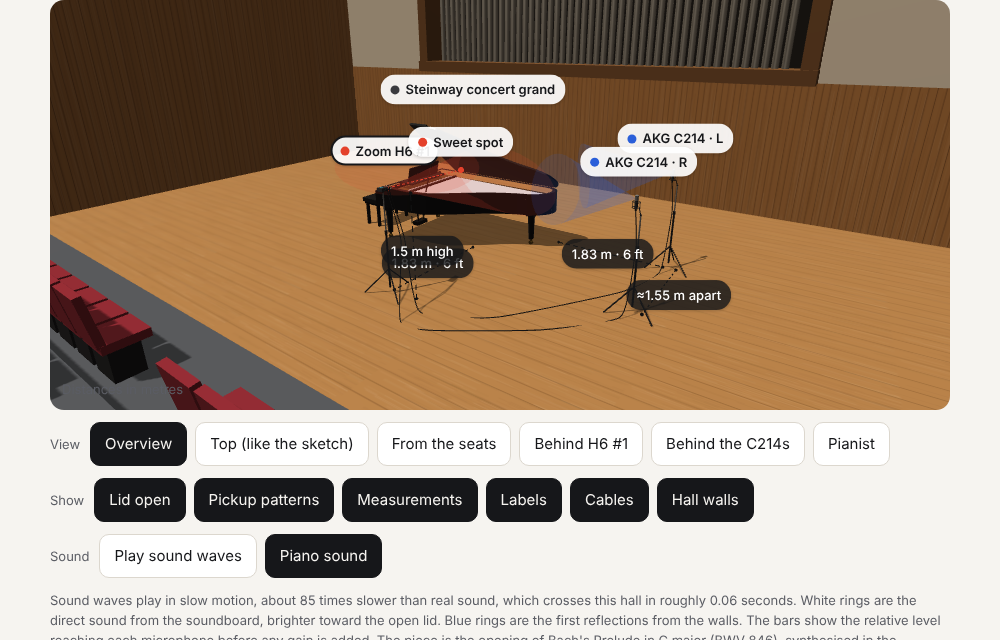
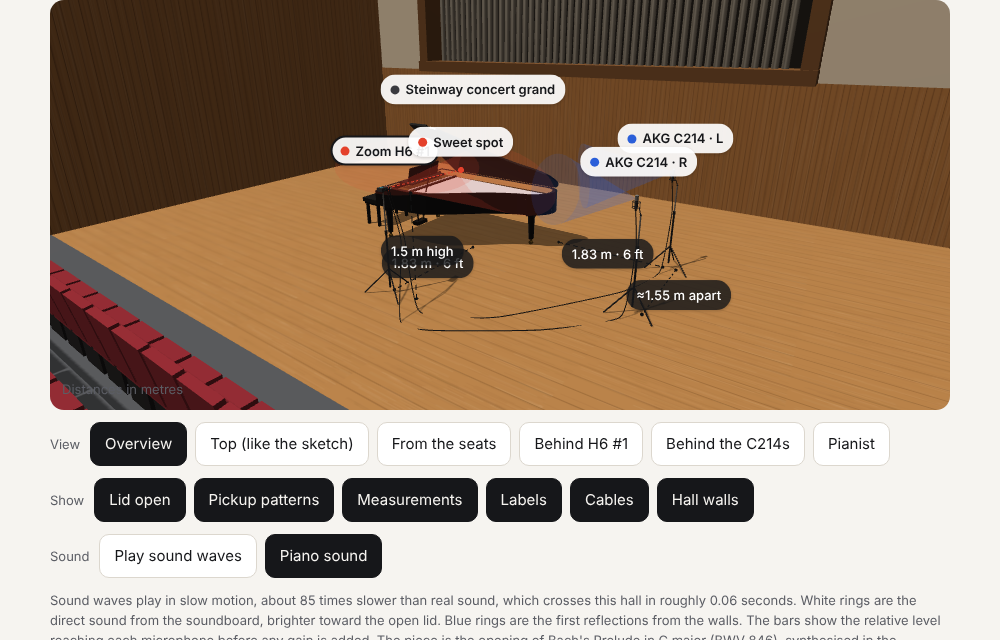
Close the centre aisle and stand H6 #2 between seat rows
The seating is now one continuous block of 22 seats per row with side
aisles only, which narrows the hall. H6 #2 sits on a tripod in the gap
between the third and fourth rows.

Claude-Session: https://claude.ai/code/session_0183zpqxzwarV8TUNT6yqHS7

Changed region(s): [[0.031, 0.4375, 0.279, 0.6562], [0.031, 0.25, 0.341, 0.375], [0.341, 0.0, 0.403, 0.2188]]

diff --git a/index.html b/index.html
@@ -132,7 +132,7 @@ const INFO={
  h6a:{name:'Zoom H6 #1',color:C.main,tag:'Main recorder and preamp · 4 tracks',rows:[['Capsule','Built-in X/Y set to 120°, facing forward'],['Shaded field','The pair covers 120° in total. The two mics overlap in the middle, so the sweet spot is picked up by both'],['Height','1.5 m'],['Place','≈1.83 m (6 ft) out from the curved side, shifted a little to the right (toward the tail)'],['Aim','Tilted slightly left onto the sweet spot, the middle of the open lid'],['Also','Preamp and 48 V phantom for both C214s. Inputs 3 and 4 are both on the right side of the recorder, 3 above 4']],text:'This is the main stereo image. The 120° setting gives a wider picture than 90°. Fine-tune the height and angle on headphones.'},
  c214L:{name:'AKG C214 · L',color:C.pair,tag:'Spaced pair · Input 3 on H6 #1',rows:[['Pattern','Large-diaphragm cardioid'],['Height','1.5 m'],['Distance','≈1.83 m (6 ft) beyond the tail'],['Side','Bass (back of the stage)'],['Aim','At the piano, angled slightly toward its centre']],text:'It is called L because it carries the bass, the way the pianist hears it. If you stand behind the pair facing the piano, this mic is on your right.'},
  c214R:{name:'AKG C214 · R',color:C.pair,tag:'Spaced pair · Input 4 on H6 #1',rows:[['Pattern','Large-diaphragm cardioid'],['Height','1.5 m'],['Spacing','≈1.5–1.6 m from L, a little wider than the keyboard'],['Side','Treble (toward the audience)'],['Aim','At the piano, angled slightly toward its centre']],text:'The wide spacing gives a broad image. If the centre sounds thin, the H6 #1 X/Y fills it in the mix.'},
- h6b:{name:'Zoom H6 #2',color:C.room,tag:'Room / "echo" · 2 tracks',rows:[['Capsule','Built-in X/Y set to 120°, facing backward (away from the stage)'],['Shaded field','The pair covers 120° in total, with the two mics overlapping in the middle'],['Height','1.5 m above the floor of its row'],['Place','In the raked seating, past the stage edge'],['Aim','Toward the back of the hall, to catch reflections rather than the direct piano sound']],text:'This recorder collects the hall’s reverb, which you blend in under the close mics. Facing it backward keeps the direct sound low. The exact row isn’t fixed in the plan, so the model shows an example position in the fourth row.'}
+ h6b:{name:'Zoom H6 #2',color:C.room,tag:'Room / "echo" · 2 tracks',rows:[['Capsule','Built-in X/Y set to 120°, facing backward (away from the stage)'],['Shaded field','The pair covers 120° in total, with the two mics overlapping in the middle'],['Height','1.5 m above the floor of its row'],['Place','On a tripod standing in the gap between the third and fourth rows of seats, at the centre of the hall'],['Aim','Toward the back of the hall, to catch reflections rather than the direct piano sound']],text:'This recorder collects the hall’s reverb, which you blend in under the close mics. Facing it backward keeps the direct sound low. The exact row isn’t fixed in the plan, so the model shows an example position between the third and fourth rows.'}
 };
 const ORDER=['piano','h6a','c214L','c214R','h6b'];
 let sel='h6a';
@@ -189,7 +189,7 @@ function wood(base,dk,planks,vert){return (g,w,h)=>{g.fillStyle=base;g.fillRect(
 
 // ---------- Hall (proportions approximate) ----------
 const hall=new THREE.Group(),upper=new THREE.Group();scene.add(hall);hall.add(upper);
-const X0=-7.7,X1=8.3,Z0=-4.3,Z1=15.6,HC=9,CX=(X0+X1)/2,W=X1-X0;
+const X0=-6.4,X1=7.0,Z0=-4.3,Z1=15.6,HC=9,CX=(X0+X1)/2,W=X1-X0;
 const STAGE_FRONT=4.0,ROW0=4.9,ROWD=0.95,NROW=11,rowY=r=>r*0.33;
 const plane=(w,h,mat,x,y,z,rx,ry,parent)=>{const m=new THREE.Mesh(new THREE.PlaneGeometry(w,h),mat);m.position.set(x,y,z);m.rotation.set(rx,ry,0);m.receiveShadow=true;parent.add(m);return m};
 plane(W,STAGE_FRONT-Z0,M('#ffffff',{map:tex(512,512,wood('#a97d4c','#5a3c1e',10,false),7,4),roughness:.45,envMapIntensity:.25}),CX,0,(Z0+STAGE_FRONT)/2,-Math.PI/2,0,scene);
@@ -197,8 +197,8 @@ const carpet=M('#4a4f58',{roughness:.95});
 plane(W,ROW0-.5+ROWD-STAGE_FRONT,carpet,CX,.002,(STAGE_FRONT+ROW0-.5+ROWD)/2,-Math.PI/2,0,scene);
 for(let r=1;r<NROW;r++)add(box(W,rowY(r),ROWD),carpet,scene,CX,rowY(r)/2,ROW0-.5+r*ROWD+ROWD/2);
 {const z=ROW0-.5+NROW*ROWD;add(box(W,rowY(NROW-1),Z1-z),carpet,scene,CX,rowY(NROW-1)/2,(z+Z1)/2)}
-{ // seats: two blocks of 11 with a centre aisle
-  const pos=[];for(let r=0;r<NROW;r++)for(let k=0;k<11;k++){pos.push([-6.42+k*.56,ROW0+r*ROWD,rowY(r)],[1.38+k*.56,ROW0+r*ROWD,rowY(r)])}
+{ // seats: one continuous block of 22 per row, side aisles only
+  const pos=[];for(let r=0;r<NROW;r++)for(let k=0;k<22;k++)pos.push([CX-5.88+k*.56,ROW0+r*ROWD,rowY(r)])
   const fab=M('#7c2530',{roughness:.9}),n=pos.length;
   const cu=new THREE.InstancedMesh(box(.5,.1,.45),fab,n),bk=new THREE.InstancedMesh(box(.5,.6,.08),fab,n),bs=new THREE.InstancedMesh(box(.44,.37,.3),dark,n);
   const d=new THREE.Object3D();pos.forEach(([x,z,y],i)=>{d.rotation.set(0,0,0);d.position.set(x,y+.42,z);d.updateMatrix();cu.setMatrixAt(i,d.matrix);
@@ -218,9 +218,9 @@ for(let r=1;r<NROW;r++)add(box(W,rowY(r),ROWD),carpet,scene,CX,rowY(r)/2,ROW0-.5
   for(let i=0;i<N;i++){const h=1.6+2.6*Math.abs(Math.cos(i/(N-1)*Math.PI*3));d.position.set(CX-3.84+i*.16,2.88+h/2,Z0+.55);d.scale.set(1,h,1);d.updateMatrix();pipes.setMatrixAt(i,d.matrix)}
   hall.add(pipes);
   // ceiling reflectors and lighting catwalk
-  const cloud=M('#e9e4d8',{roughness:.9});[-5.2,0,5.2].forEach(dx=>{add(box(4.6,.08,2.6),cloud,upper,CX+dx,7.4,.5,false).rotation.x=.12});
+  const cloud=M('#e9e4d8',{roughness:.9});[-4.4,0,4.4].forEach(dx=>{add(box(4.2,.08,2.6),cloud,upper,CX+dx,7.4,.5,false).rotation.x=.12});
   const cz=5.6,cy=7.3,iron=M('#2a2a2c');add(box(W,.06,1),iron,upper,CX,cy,cz,false);[-.5,.5].forEach(dz=>add(box(W,.05,.05),iron,upper,CX,cy+1,cz+dz,false));
-  for(let i=0;i<8;i++){add(cyl(.11,.13,.3,12),iron,upper,X0+1.5+i*1.86,cy-.3,cz-.5,false).rotation.x=.5}
+  for(let i=0;i<8;i++){add(cyl(.11,.13,.3,12),iron,upper,X0+1.5+i*(W-3)/7,cy-.3,cz-.5,false).rotation.x=.5}
 }
 
 // ---------- Steinway concert grand (2.74 m x 1.57 m) ----------
@@ -260,8 +260,8 @@ function placeProp(){const a=-lidPivot.rotation.x,A=V(-.35,.98,.62),B=V(-.35,.98
 
 // ---------- Stands, recorders, microphones ----------
 const pickables=[pianoG],coneGroup=new THREE.Group(),cableGroup=new THREE.Group(),dimGroup=new THREE.Group();scene.add(coneGroup,cableGroup,dimGroup);
-function tripod(x,z,floorY,topY){const hub=floorY+.38,mid=Math.min(hub+.55,topY);
-  for(let i=0;i<3;i++){const a=i*2.094+.5;rod(V(x,hub,z),V(x+Math.cos(a)*.36,floorY+.012,z+Math.sin(a)*.36),.009,dark,scene)}
+function tripod(x,z,floorY,topY,compact){const hub=floorY+.38,mid=Math.min(hub+.55,topY),zs=compact?.55:1; // compact: legs squeezed to fit between two seat rows
+  for(let i=0;i<3;i++){const a=i*2.094+(compact?Math.PI/2:.5);rod(V(x,hub,z),V(x+Math.cos(a)*.36,floorY+.012,z+Math.sin(a)*.36*zs),.009,dark,scene)}
   rod(V(x,floorY+.1,z),V(x,mid,z),.013,dark,scene);rod(V(x,mid-.05,z),V(x,topY,z),.009,steel,scene);add(cyl(.019,.019,.05,12),dark,scene,x,mid-.02,z)}
 function cone(at,dir,color,len=1.3,rad=.5,flat=1){const geo=new THREE.ConeGeometry(rad,len,40,1,true);geo.translate(0,-len/2,0);geo.rotateX(-Math.PI/2);geo.scale(1,flat,1);
   const m=new THREE.Mesh(geo,new THREE.MeshBasicMaterial({color,transparent:true,opacity:.13,depthWrite:false,side:THREE.DoubleSide}));
@@ -269,7 +269,7 @@ function cone(at,dir,color,len=1.3,rad=.5,flat=1){const geo=new THREE.ConeGeomet
 function rr(w,h,r){const s=new THREE.Shape(),P=Math.PI;s.moveTo(-w/2+r,-h/2);s.lineTo(w/2-r,-h/2);s.absarc(w/2-r,-h/2+r,r,-P/2,0,false);s.lineTo(w/2,h/2-r);s.absarc(w/2-r,h/2-r,r,0,P/2,false);
   s.lineTo(-w/2+r,h/2);s.absarc(-w/2+r,h/2-r,r,P/2,P,false);s.lineTo(-w/2,-h/2+r);s.absarc(-w/2+r,-h/2+r,r,P,P*1.5,false);return s}
 const h6Body=M('#33363b',{roughness:.55,metalness:.2});
-function h6(key,p,floorY,target,color,half=Math.PI/3){ // Zoom H6: 78 x 153 x 48 mm, X/Y capsule at the front
+function h6(key,p,floorY,target,color,half=Math.PI/3,compact=false){ // Zoom H6: 78 x 153 x 48 mm, X/Y capsule at the front
   const g=new THREE.Group();g.position.copy(p);g.userData.key=key;
   add(new THREE.ExtrudeGeometry(rr(.078,.046,.009),{depth:.145,bevelEnabled:true,bevelSize:.003,bevelThickness:.003,bevelSegments:2}),h6Body,g,0,0,-.15);
   add(new THREE.PlaneGeometry(.05,.036),M('#16323a',{emissive:'#2aa6c0',emissiveIntensity:.6}),g,0,.0265,-.115,false).rotation.x=-Math.PI/2;
@@ -281,7 +281,7 @@ function h6(key,p,floorY,target,color,half=Math.PI/3){ // Zoom H6: 78 x 153 x 48
   if(key==='h6a')[-.045,-.085].forEach(z=>{add(cyl(.011,.011,.03,12),dark,g,-.05,0,z,false).rotation.z=Math.PI/2}); // inputs 3 (nearer the mics) and 4, both on the right side
   add(new THREE.SphereGeometry(.014,12,10),dark,g,0,-.036,-.08);
   g.lookAt(target);scene.add(g);g.updateMatrixWorld(true);
-  const b=g.localToWorld(V(0,-.05,-.08));tripod(b.x,b.z,floorY,b.y);
+  const b=g.localToWorld(V(0,-.05,-.08));tripod(b.x,b.z,floorY,b.y,compact);
   const dir=target.clone().sub(p).normalize(),ov=5*Math.PI/180,ch=(half+ov)/2,len=1.9;[1,-1].forEach(s=>cone(p,dir.clone().applyAxisAngle(UP,s*(half-ch)),color,len,len*Math.tan(ch),.4));
   pickables.push(g);return g}
 function c214(key,p,target,color){ // AKG C214: side-address, 160 x 56 mm, in a shock mount
@@ -299,11 +299,11 @@ function c214(key,p,target,color){ // AKG C214: side-address, 160 x 56 mm, in a 
   cone(p.clone().add(V(0,.03,0)),target.clone().sub(p),color);pickables.push(g);return g}
 
 const SEAT_Y=rowY(3);
-const P={h6a:V(0.3,1.5,2.06),c214L:V(3.2,1.5,-0.78),c214R:V(3.2,1.5,0.78),h6b:V(0.3,SEAT_Y+1.5,ROW0+3*ROWD)};
+const P={h6a:V(0.3,1.5,2.06),c214L:V(3.2,1.5,-0.78),c214R:V(3.2,1.5,0.78),h6b:V(0.3,SEAT_Y+1.5,ROW0+3*ROWD-.36)};
 const SWEET=V(0.0,1.3,0.12);
 const gA=h6('h6a',P.h6a,0,SWEET,C.main);
 const gL=c214('c214L',P.c214L,V(0.3,1.1,0),C.pair),gR=c214('c214R',P.c214R,V(0.3,1.1,0),C.pair);
-h6('h6b',P.h6b,SEAT_Y,V(0.3,SEAT_Y+1.5,40),C.room); // faces backward, away from the stage
+h6('h6b',P.h6b,SEAT_Y,V(0.3,SEAT_Y+1.5,40),C.room,Math.PI/3,true); // faces backward, away from the stage
 add(new THREE.SphereGeometry(.05,20,14),new THREE.MeshBasicMaterial({color:C.main}),coneGroup,SWEET.x,SWEET.y,SWEET.z,false);
 {const l=new THREE.Line(new THREE.BufferGeometry().setFromPoints([P.h6a,SWEET]),new THREE.LineDashedMaterial({color:C.main,dashSize:.06,gapSize:.05}));l.computeLineDistances();coneGroup.add(l)}
 
